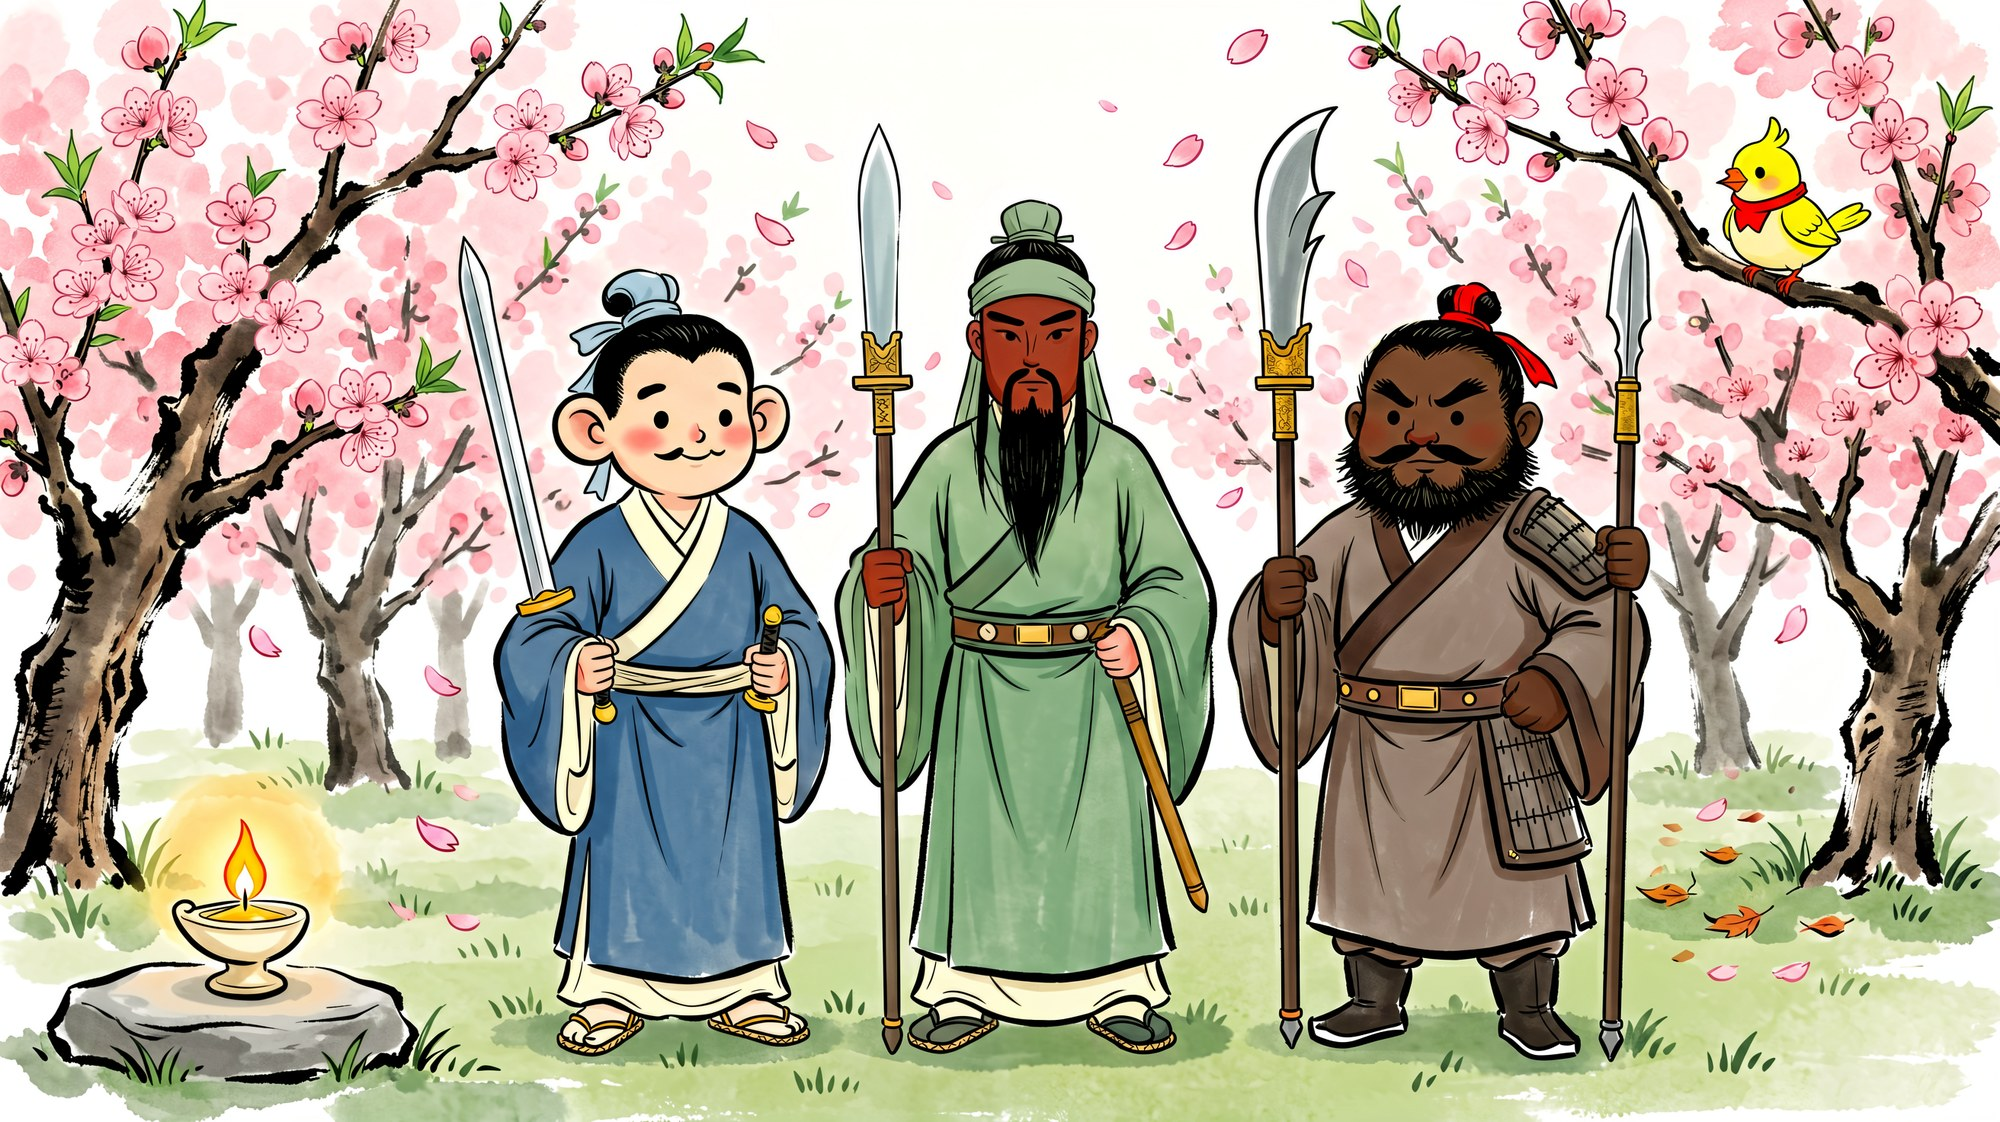
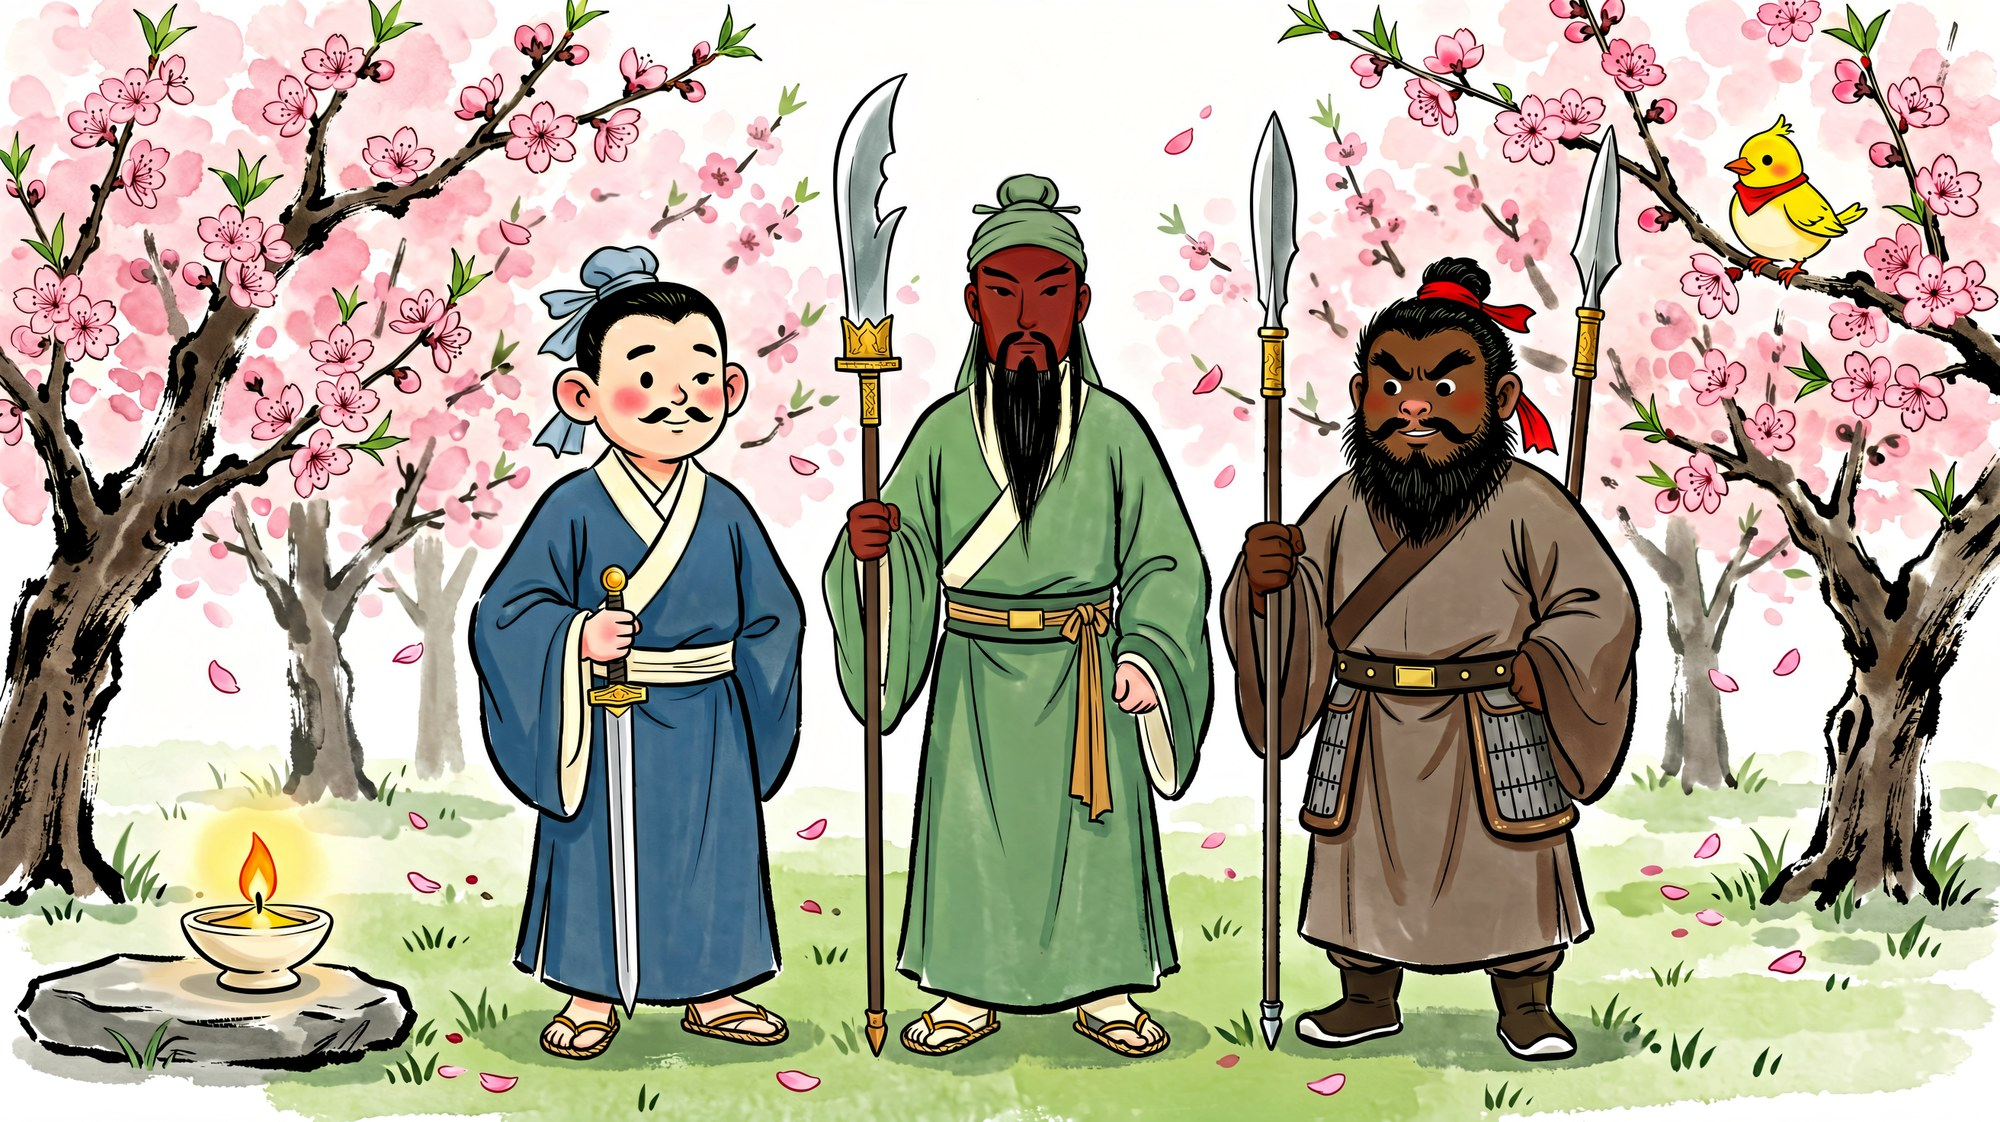
feat: 全片定稿版（P3桃园+三兵器/P7三顾/P9汉旗+群臣/P10卧床）

diff --git a/index.html b/index.html
@@ -63,7 +63,7 @@
 <div class="slide" data-n="9"><img src="pages/09-thirty-seven-years.jpg" alt="三十七年" decoding="async"><div class="cap"><h2><span class="n">09</span>三十七年</h2></div><div class="notes"><div class="cue">动作提示：双手张开，慢慢向上</div><div class="say">六十一岁那年，他在成都当上了皇帝。从二十四岁出发，他整整走了三十七年。</div></div></div>
 <div class="slide" data-n="10"><img src="pages/10-last-lesson.jpg" alt="最后一课" decoding="async"><div class="cap"><h2><span class="n">10</span>最后一课</h2></div><div class="notes"><div class="cue">动作提示：面向小朋友，摊开手问</div><div class="say">最后一课，他留给儿子两句话：「不要因为坏事很小就去做；不要因为好事很小就不做。」小朋友们，刘备输过很多次，可他一次都没有放弃。你心里的小火苗，还在吗？</div></div></div>
 </div>
-<div class="hint" id="hint">← → 翻页 · N 显示讲稿 · F 全屏 · 更新 2026-09-13 22:52</div>
+<div class="hint" id="hint">← → 翻页 · N 显示讲稿 · F 全屏 · 更新 2026-09-13 23:08</div>
 <script>
 const slides = [...document.querySelectorAll('.slide')];
 const rail = document.getElementById('rail');
@@ -123,6 +123,6 @@ addEventListener('load', () => { go(parseInt(location.hash.slice(1), 10) - 1 || 
 addEventListener('mousemove', () => { clearTimeout(hideTimer);
   hideTimer = setTimeout(() => hint.classList.remove('show'), 1800); });
 </script>
-<!-- BUILD:2026-09-13 22:52 -->
+<!-- BUILD:2026-09-13 23:08 -->
 </body>
 </html>
